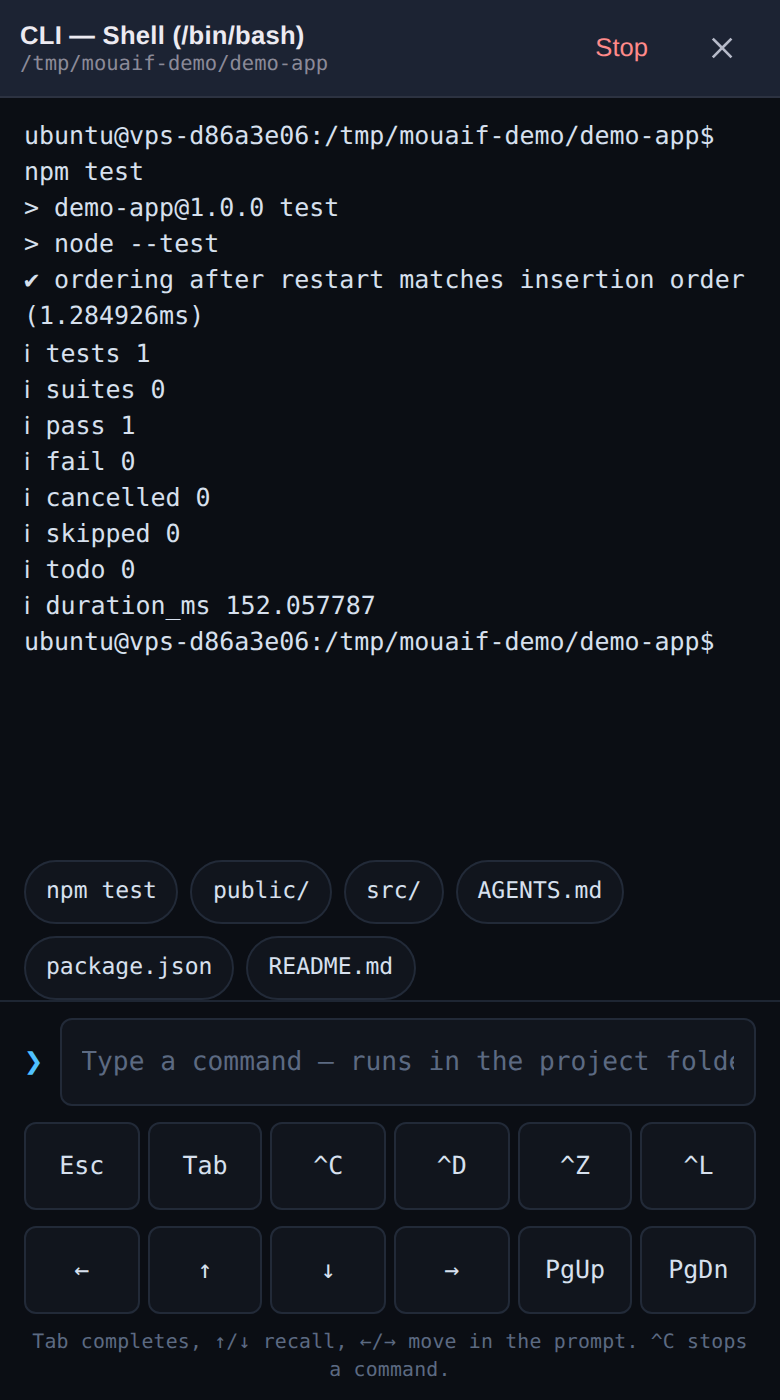
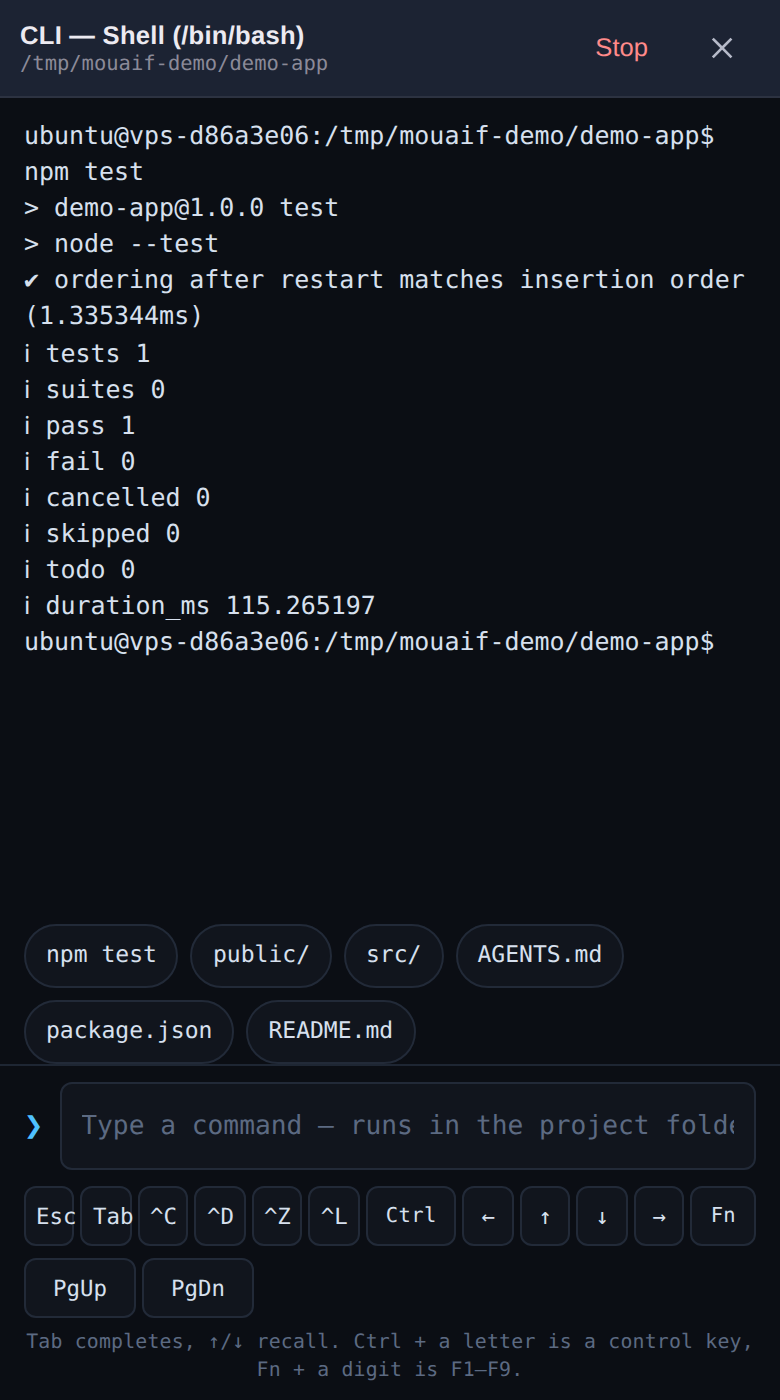
docs: refresh the terminal capture for the small key rows
The landing capture and the CLI modal page show the keys as they are now
(small rows with the Ctrl and Fn modifiers), and the copy describing the
terminal section names what the two modifiers do instead of calling the
keys plain buttons.

diff --git a/docs/features/cli-modal.html b/docs/features/cli-modal.html
@@ -10,6 +10,13 @@
   <meta property="og:title" content="CLI modal — mouaif docs" />
   <meta property="og:description" content="The CLI modal is a full-screen command prompt inside a chat, opened from the composer&#39;s File button → **Cli**. It runs a persistent shell for the project —…" />
   <meta property="og:url" content="https://gjeloshajantoine.github.io/mouaif/features/cli-modal.html" />
+  <meta property="og:image" content="https://gjeloshajantoine.github.io/mouaif/features/images/landing/terminal.png" />
+  <meta property="og:image:alt" content="The CLI modal is a full-screen command prompt inside a chat, opened from the composer&#39;s File button → **Cli**. It runs a persistent shell for the project —…" />
+  <meta property="og:image:width" content="780" />
+  <meta property="og:image:height" content="1400" />
+  <meta name="twitter:card" content="summary_large_image" />
+  <meta name="twitter:image" content="https://gjeloshajantoine.github.io/mouaif/features/images/landing/terminal.png" />
+  <meta name="twitter:image:alt" content="The CLI modal is a full-screen command prompt inside a chat, opened from the composer&#39;s File button → **Cli**. It runs a persistent shell for the project —…" />
   <link rel="stylesheet" href="../assets/site.css" />
 </head>
 <body>
@@ -43,6 +50,8 @@
 <h2 id="overview">Overview</h2>
 <p>The CLI modal is a full-screen command prompt inside a chat, opened from the composer&#39;s File button → <strong>Cli</strong>. It runs a persistent shell for the project — the platform shell (<code>cmd.exe</code> on Windows, the user&#39;s <code>$SHELL</code> or <code>/bin/sh</code> on POSIX) — with the project directory as the working directory. Output streams into the modal; each line typed at the prompt is sent to the same running process.</p>
 <p>The session runs on a <strong>pseudo-terminal</strong> on macOS, Linux, BSD, and supported Windows x64/ARM64 installations, so programs that ask a question (<code>npm publish</code> under two-factor authentication, <code>git commit</code> for a missing identity, <code>sudo</code>, <code>read</code>) can show the prompt and read the answer you type, and programs that only print full output to a terminal — npm&#39;s 2FA link — print it complete.</p>
+<p><img src="images/landing/terminal.png" alt="The CLI sheet at 390 px running npm test inside the project directory: the live shell output, suggestion chips for the session command and the project files, the command field, and two rows of small terminal keys (Esc, Tab, ^C, ^D, ^Z, ^L, Ctrl, arrows, Fn, PgUp, PgDn) above the line naming what the modifiers do." loading="lazy" /></p>
+<p>The capture above is generated by <a href="https://github.com/GjeloshajAntoine/mouaif/blob/master/scripts/capture-landing-shots.js" target="_blank" rel="noopener noreferrer">scripts/capture-landing-shots.js</a> against a fixture project, so it is reproducible rather than hand-taken.</p>
 <h2 id="usage">Usage</h2>
 <p>Open the composer&#39;s File button and choose <strong>Cli</strong>. The header shows the shell label and the project directory.</p>
 <ul><li><p>Type a command and press <strong>Enter</strong> to run it.</p></li><li><p>Press <strong>Enter</strong> on an empty line to send it — a prompt that offers a default accepts it.</p></li><li><p>Press <strong>Ctrl+Enter</strong> (<strong>Cmd+Enter</strong> on macOS) to send the line <strong>without a line terminator</strong>, for a program waiting on a single key (a <code>y/n</code> confirmation, a pager).</p></li><li><p>Close the sheet with the close button or <strong>Escape</strong>. Closing only hides it: the shell keeps running in the background and reopening replays what it printed. Tap <strong>Stop</strong> in the header to kill it — see <a href="background-terminal.html">Background terminal</a>.</p></li></ul>
@@ -54,9 +63,14 @@
 …test output…</code></pre>
 <p>Type <strong><code>!!</code></strong> and press <strong>Enter</strong> to repeat the previous command — the shell&#39;s own history expansion, handy when a keyboard has no Up arrow. It needs a terminal session; <code>!!</code> is not added to the suggestion row, the command it repeats already is.</p>
 <h3 id="keys">Keys</h3>
-<p>A phone keyboard has letters, digits and Enter, and nothing a terminal actually needs. Under the prompt, two rows carry the twelve keys it lacks:</p>
+<p>A phone keyboard has letters, digits and Enter, and nothing a terminal actually needs. Under the prompt, two rows of <strong>small</strong> keys carry the ones it lacks — small because the prompt above keeps the finger-sized target and the keys are a secondary control:</p>
 <div class="table-wrap"><table><thead><tr><th>Key</th><th>At the shell prompt</th><th>While a program runs</th></tr></thead><tbody><tr><td><strong>Esc</strong></td><td>clears the prompt</td><td>sends <code>ESC</code> — leave <code>less</code>, <code>vim</code>, a TUI</td></tr><tr><td><strong>Tab</strong></td><td>completes the command or path <strong>in the prompt</strong></td><td>sends <code>Tab</code></td></tr><tr><td><strong>^C</strong></td><td>interrupts (and clears the prompt)</td><td>interrupts the running command</td></tr><tr><td><strong>^D</strong></td><td>sends EOF</td><td>ends input (EOF)</td></tr><tr><td><strong>^Z</strong></td><td>sends <code>SUB</code></td><td>suspends the running command</td></tr><tr><td><strong>^L</strong></td><td>clears the screen</td><td>redraws / clears the screen</td></tr><tr><td><strong>←</strong> / <strong>→</strong></td><td>moves the cursor in the prompt</td><td>sends the arrow</td></tr><tr><td><strong>↑</strong> / <strong>↓</strong></td><td>previous / next command from this session</td><td>sends the arrow — scroll <code>less</code>, move in a menu</td></tr><tr><td><strong>PgUp</strong> / <strong>PgDn</strong></td><td>scrolls the output</td><td>sends Page Up / Page Down</td></tr></tbody></table></div>
 <p>Every key is one raw write with <strong>no line terminator</strong>, so <code>^C</code> interrupts without also pressing Enter — which would answer a second prompt you never saw.</p>
+<h4 id="ctrl-and-fn">Ctrl and Fn</h4>
+<p>Two of the keys are <strong>modifiers</strong>, not senders, and they are what makes a small row enough: a phone keyboard has no Ctrl and no F-row at all. Tap <strong>Ctrl</strong> and the next character is that control key; tap <strong>Fn</strong> and the next digit is that function key. The character is sent as its bytes and <strong>never reaches the command line</strong>, so <code>Ctrl</code> + <code>c</code> is exactly <code>^C</code> and leaves the prompt as it was.</p>
+<div class="table-wrap"><table><thead><tr><th>Armed</th><th>Then</th><th>Sends</th></tr></thead><tbody><tr><td><strong>Ctrl</strong></td><td><code>c</code></td><td><code>\x03</code> — <code>^C</code>, interrupt</td></tr><tr><td><strong>Ctrl</strong></td><td><code>d</code></td><td><code>\x04</code> — <code>^D</code>, EOF</td></tr><tr><td><strong>Ctrl</strong></td><td><code>a</code>, <code>e</code>, <code>k</code>, <code>u</code>, <code>w</code>, <code>r</code>, <code>]</code>, …</td><td>the matching control key (<code>\x01</code>, <code>\x05</code>, …)</td></tr><tr><td><strong>Ctrl</strong></td><td><code>[</code></td><td><code>ESC</code></td></tr><tr><td><strong>Fn</strong></td><td><code>1</code>–<code>4</code></td><td><code>F1</code>–<code>F4</code> (<code>ESC O P</code> … <code>ESC O S</code>)</td></tr><tr><td><strong>Fn</strong></td><td><code>5</code>–<code>9</code></td><td><code>F5</code>–<code>F9</code> (<code>ESC [ 5 ~</code> …)</td></tr></tbody></table></div>
+<p>The Ctrl rule is the terminal&#39;s own — the character with its top three bits cleared — so <strong>every</strong> control character is reachable, not just the four with a button. <code>Fn</code> is the only way to press a function key on a phone (<code>F1</code> help in a pager, <code>F3</code> search in <code>less</code>, <code>F10</code> quit in <code>mc</code>).</p>
+<p>An armed modifier is spent by the next thing you do, so a <code>Ctrl</code> that was tapped by mistake can never swallow the letter after the one you meant. It also stays armed when the character it got has no meaning for it (<code>Fn</code> + <code>z</code>), and the line under the keys says what is armed: <code>Ctrl armed — a letter is that control key: c is ^C, u is ^U, [ is Esc.</code> And a letter meant as a modifier never lands in the line: it is written to the child instead.</p>
 <p>The modal picks the column for you. bash and zsh announce it themselves: they switch the terminal&#39;s bracketed-paste mode on at their prompt and off when a command starts, and a full-screen program (<code>less</code>, <code>top</code>, <code>vim</code>) switches to the alternate screen. While a program has the input, the rows get a blue edge and the line under them says <code>Keys go to the running program — ^C stops it, Esc leaves it.</code> If the program switches the arrows to <em>application</em> mode (as <code>less</code> and <code>vim</code> do), the arrows send that form. The shell takes the column back as soon as it prints its next prompt — including after a full-screen program was <strong>killed</strong> with <code>^C</code>, which never gets to restore the screen itself.</p>
 <p>At the prompt, Esc clears the line instead of sending <code>ESC</code>. A bare <code>ESC</code> at a bash prompt waits for a second key, so the first letter of your next command would be swallowed.</p>
 <p><strong>Tab</strong> completes <strong>in the prompt itself</strong>, and nothing is sent to the shell until you press <strong>Enter</strong>. A command from this session&#39;s history that starts with your line is completed whole (<code>git chec</code> → <code>git checkout main</code>); several matches extend as far as they agree (<code>npm ru</code> → <code>npm run </code>) and the suggestion row below narrows to the rest. When no history command matches, the word before the cursor completes from the project&#39;s own names, prefix preserved (<code>ls pac</code> → <code>ls package.json</code>, <code>cd scr</code> → <code>cd scripts/</code>). <strong>↑/↓</strong> walk the same session history into the prompt. Because completion happens in the field, the text you typed is never emptied and never lost — and it works the same on a session without a terminal.</p>
@@ -81,7 +95,7 @@ Press ENTER to open in the browser...
 <p>You can also run multiple commands in one session — the shell keeps its state (working directory, environment, variables) between lines.</p>
 <h2 id="tests">Tests</h2>
 <pre><code class="language-bash">npm run test:cli</code></pre>
-<ul><li><p><code>scripts/test-cli-suggest.js</code> — unit-tests the suggestion row, the key rows, and Tab/↑/↓ (the key table&#39;s sequences, that at the shell Tab/arrows/Page keys/Esc edit the prompt and write nothing while to a program every key writes its sequence — application-mode arrows included — and the hardware-key mapping, how a tab a phone keyboard typed into the field is split off, that Tab completes the line in the field — history command first, then the project&#39;s top-level names — and that no completion ever empties the field, the ↑/↓ walk over the session history, who owns stdin from bracketed-paste markers split across chunks, which lines the history keeps, the ranking and the cap). Every key is asserted byte for byte, including that none of them carries a line terminator.</p></li><li><p><code>scripts/test-cli-tab-program-mode.mjs</code> — browser regression (real built app + fixture API, phone width): a full-screen program takes the alternate screen and is then killed without restoring it, and the test asserts the shell&#39;s next prompt marker leaves program mode and <strong>Tab completes in the prompt again</strong> (writing nothing to the child), while a live program still receives Tab as a raw byte.</p></li><li><p><code>scripts/test-cli-session-newline.js</code> — drives the real endpoints and asserts a plain <code>ls</code> lists the project files (the terminator rule).</p></li><li><p><code>scripts/test-cli-strip-ansi.js</code> — unit-tests <code>stripAnsi</code> / <code>CliScreen</code>, including every escape-sequence family split at every pair of positions and fed one code point at a time.</p></li><li><p><code>scripts/test-cli-utf8-split.js</code> — feeds <code>attachCliStream</code> UTF-8 split at every byte boundary, on the PTY and piped paths, and asserts no <code>�</code> reaches the broadcast.</p></li><li><p><code>scripts/test-cli-pty-interactive.js</code> — asserts the session is interactive, that a prompting program&#39;s question reaches the screen, and that the answer POSTed to the command endpoint is read back by the still-running child. It skips (exit 0) when no pseudo-terminal can be allocated, because that is the documented degraded mode.</p></li><li><p><code>scripts/test-cli-symlink-project.js</code> — opens a session through a symlinked project path and asserts that a command reaches it and that close really ends it.</p></li><li><p><code>scripts/test-cli-npm-otp-url.js</code> — runs a real <code>npm publish</code> in a CLI session against a local registry that demands web 2FA, once per backend present on the host, and asserts the link reaches the modal complete (never <code>***</code>) and the publish finishes.</p></li><li><p><code>scripts/test-cli-pty-shim.js</code> — unit-tests <code>src/pty.js</code> on every POSIX backend present on the host (stdout is a terminal too, the grid is 100×30, not 0×0): <code>isAvailable()</code> is true on POSIX, quoting survives a path with spaces and quotes, <code>onData</code> replays what was buffered before the stream attached, <code>write</code> reaches the shell, and <code>kill</code> takes down the shell, its foreground job and any backgrounded job (<code>cmd &amp;</code>). Windows uses node-pty&#39;s own platform-tested ConPTY adapter.</p></li></ul>
+<ul><li><p><code>scripts/test-cli-suggest.js</code> — unit-tests the suggestion row, the key rows, and Tab/↑/↓ (the key table&#39;s sequences, that at the shell Tab/arrows/Page keys/Esc edit the prompt and write nothing while to a program every key writes its sequence — application-mode arrows included — and the hardware-key mapping, how a tab a phone keyboard typed into the field is split off, that Tab completes the line in the field — history command first, then the project&#39;s top-level names — and that no completion ever empties the field, the ↑/↓ walk over the session history, who owns stdin from bracketed-paste markers split across chunks, which lines the history keeps, the ranking and the cap). Every key is asserted byte for byte, including that none of them carries a line terminator, and the modifiers are asserted the same way: Ctrl is the character with its top three bits cleared (<code>c</code> → <code>\x03</code>, and it re-derives the four ^-keys the table still carries), <code>Fn</code> + a digit is that function key&#39;s VT sequence, an armed modifier consumes its character and a modifier that matched nothing does not.</p></li><li><p><code>scripts/test-cli-tab-program-mode.mjs</code> — browser regression (real built app + fixture API, phone width): a full-screen program takes the alternate screen and is then killed without restoring it, and the test asserts the shell&#39;s next prompt marker leaves program mode and <strong>Tab completes in the prompt again</strong> (writing nothing to the child), while a live program still receives Tab as a raw byte. It also asserts the two rows render the small keys (nothing above 34 px, so the row is a secondary control rather than the finger-sized target the prompt is) plus the two modifiers, and that a touch on <strong>Ctrl</strong> then a typed <code>c</code> writes <code>\x03</code> raw and leaves the prompt empty — the character a phone keyboard cannot type.</p></li><li><p><code>scripts/test-cli-session-newline.js</code> — drives the real endpoints and asserts a plain <code>ls</code> lists the project files (the terminator rule).</p></li><li><p><code>scripts/test-cli-strip-ansi.js</code> — unit-tests <code>stripAnsi</code> / <code>CliScreen</code>, including every escape-sequence family split at every pair of positions and fed one code point at a time.</p></li><li><p><code>scripts/test-cli-utf8-split.js</code> — feeds <code>attachCliStream</code> UTF-8 split at every byte boundary, on the PTY and piped paths, and asserts no <code>�</code> reaches the broadcast.</p></li><li><p><code>scripts/test-cli-pty-interactive.js</code> — asserts the session is interactive, that a prompting program&#39;s question reaches the screen, and that the answer POSTed to the command endpoint is read back by the still-running child. It skips (exit 0) when no pseudo-terminal can be allocated, because that is the documented degraded mode.</p></li><li><p><code>scripts/test-cli-symlink-project.js</code> — opens a session through a symlinked project path and asserts that a command reaches it and that close really ends it.</p></li><li><p><code>scripts/test-cli-npm-otp-url.js</code> — runs a real <code>npm publish</code> in a CLI session against a local registry that demands web 2FA, once per backend present on the host, and asserts the link reaches the modal complete (never <code>***</code>) and the publish finishes.</p></li><li><p><code>scripts/test-cli-pty-shim.js</code> — unit-tests <code>src/pty.js</code> on every POSIX backend present on the host (stdout is a terminal too, the grid is 100×30, not 0×0): <code>isAvailable()</code> is true on POSIX, quoting survives a path with spaces and quotes, <code>onData</code> replays what was buffered before the stream attached, <code>write</code> reaches the shell, and <code>kill</code> takes down the shell, its foreground job and any backgrounded job (<code>cmd &amp;</code>). Windows uses node-pty&#39;s own platform-tested ConPTY adapter.</p></li></ul>
       <div class="footer">Generated from <code>docs/</code> by <code>scripts/build-docs.js</code>. Open an issue on the repo to suggest changes.</div>
     </main>
   </div>

diff --git a/docs/features/docs-site.html b/docs/features/docs-site.html
@@ -54,7 +54,7 @@
 <p>The <code>#screens</code> wrapper itself carries <strong>no heading and no lead paragraph</strong>. An earlier revision put &quot;What it does that others do not&quot; and a line about 390 px captures above the first section, which stacked a third heading on top of the first section&#39;s own H2 and pushed the first real capture further down the phone screen for no information a reader could use. The hero&#39;s tagline already says what the app is, and the sections say the rest.</p>
 <p>The sections are ordered by how much they distinguish the app, not by navigation order — the chat run, the terminal, git and the editor come first, and the configuration screens (settings, project settings) are deliberately <strong>not</strong> sections at all: a page that lists its own settings is a manual, not a pitch.</p>
 <p>The twelve sections, in page order:</p>
-<div class="table-wrap"><table><thead><tr><th>Section</th><th>Capture</th><th>What it shows</th></tr></thead><tbody><tr><td><strong>One chat, a whole run</strong></td><td><code>chat-view.png</code></td><td>A chat at the end of a run — the <strong>Context</strong>, <strong>Total</strong> and <strong>Balance</strong> chips, per-turn cost lines, and the <strong>Read</strong>, <strong>Searched</strong>, <strong>Wrote</strong> and <strong>Ran</strong> tool cards</td></tr><tr><td><strong>A real terminal on the phone</strong></td><td><code>terminal.png</code></td><td>The <strong>CLI</strong> sheet running <code>npm test</code> in the project directory, with the suggestion chips and the two rows of terminal keys (Esc, Tab, ^C, ^D, ^Z, ^L, arrows, PgUp, PgDn)</td></tr><tr><td><strong>Review the diff, then commit</strong></td><td><code>git.png</code></td><td>The <strong>Git</strong> sheet — branch picker with pull / push, a staged file above the commit bar, and unstaged files each with <strong>Stage</strong></td></tr><tr><td><strong>Edit the file, not a diff of it</strong></td><td><code>editor.png</code></td><td>The file editor with <code>src/store.js</code> open — the project tree, the <strong>Draft Craft / Revert / Save</strong> row, highlighted JavaScript with three lines selected, and the byte count</td></tr><tr><td><strong>Draw on the bug instead of describing it</strong></td><td><code>draft-craft.png</code></td><td>The <strong>Draft Craft</strong> annotator over an attached image — a pen stroke, a numbered pin carrying text, the marker list, and <strong>Use annotated image</strong></td></tr><tr><td><strong>Nothing sensitive runs unnamed</strong></td><td><code>subagent-auth.png</code></td><td>A <strong>subagent</strong> approval card on a paused run — the delegated task, the per-run model picker and thinking select, and the <strong>Allow once / Allow session / Always allow / Deny</strong> buttons</td></tr><tr><td><strong>Share one image, not the whole chat</strong></td><td><code>subagent-images.png</code></td><td>An illustrative fixture using the real transcript renderer: explicitly selected input, delegated image task, and returned artwork beside the answer</td></tr><tr><td><strong>A DevTools built for a phone</strong></td><td><code>inspector.png</code></td><td>The Inspector attached to a page over CDP — target bar, panel chips, live preview, console input</td></tr><tr><td><strong>Chats belong to a project</strong></td><td><code>chats-list.png</code></td><td>The Chats tab — project cards, each holding its own scrolling chat list and <strong>New chat</strong></td></tr><tr><td><strong>A chat that starts configured</strong></td><td><code>chat-tools.png</code></td><td>A brand-new chat — the model picker, then the tools list (Progress updates, File tools with its leaves, Agent files, Skills), one checkbox and one <strong>Off / Ask / Allow</strong> control per row</td></tr><tr><td><strong>Talk to it from anywhere</strong></td><td><code>dictation.png</code></td><td>The Dictate page — the model picker, the record button with its timer and level meter, and the transcript with <strong>Copy / Insert in chat / Send to chat</strong></td></tr><tr><td><strong>Your keys, your machine</strong></td><td><code>providers.png</code></td><td>Settings → Providers — seven connected providers, each naming its endpoint and whether a key is stored</td></tr></tbody></table></div>
+<div class="table-wrap"><table><thead><tr><th>Section</th><th>Capture</th><th>What it shows</th></tr></thead><tbody><tr><td><strong>One chat, a whole run</strong></td><td><code>chat-view.png</code></td><td>A chat at the end of a run — the <strong>Context</strong>, <strong>Total</strong> and <strong>Balance</strong> chips, per-turn cost lines, and the <strong>Read</strong>, <strong>Searched</strong>, <strong>Wrote</strong> and <strong>Ran</strong> tool cards</td></tr><tr><td><strong>A real terminal on the phone</strong></td><td><code>terminal.png</code></td><td>The <strong>CLI</strong> sheet running <code>npm test</code> in the project directory, with the suggestion chips and two rows of small terminal keys (Esc, Tab, ^C, ^D, ^Z, ^L, Ctrl, arrows, Fn, PgUp, PgDn)</td></tr><tr><td><strong>Review the diff, then commit</strong></td><td><code>git.png</code></td><td>The <strong>Git</strong> sheet — branch picker with pull / push, a staged file above the commit bar, and unstaged files each with <strong>Stage</strong></td></tr><tr><td><strong>Edit the file, not a diff of it</strong></td><td><code>editor.png</code></td><td>The file editor with <code>src/store.js</code> open — the project tree, the <strong>Draft Craft / Revert / Save</strong> row, highlighted JavaScript with three lines selected, and the byte count</td></tr><tr><td><strong>Draw on the bug instead of describing it</strong></td><td><code>draft-craft.png</code></td><td>The <strong>Draft Craft</strong> annotator over an attached image — a pen stroke, a numbered pin carrying text, the marker list, and <strong>Use annotated image</strong></td></tr><tr><td><strong>Nothing sensitive runs unnamed</strong></td><td><code>subagent-auth.png</code></td><td>A <strong>subagent</strong> approval card on a paused run — the delegated task, the per-run model picker and thinking select, and the <strong>Allow once / Allow session / Always allow / Deny</strong> buttons</td></tr><tr><td><strong>Share one image, not the whole chat</strong></td><td><code>subagent-images.png</code></td><td>An illustrative fixture using the real transcript renderer: explicitly selected input, delegated image task, and returned artwork beside the answer</td></tr><tr><td><strong>A DevTools built for a phone</strong></td><td><code>inspector.png</code></td><td>The Inspector attached to a page over CDP — target bar, panel chips, live preview, console input</td></tr><tr><td><strong>Chats belong to a project</strong></td><td><code>chats-list.png</code></td><td>The Chats tab — project cards, each holding its own scrolling chat list and <strong>New chat</strong></td></tr><tr><td><strong>A chat that starts configured</strong></td><td><code>chat-tools.png</code></td><td>A brand-new chat — the model picker, then the tools list (Progress updates, File tools with its leaves, Agent files, Skills), one checkbox and one <strong>Off / Ask / Allow</strong> control per row</td></tr><tr><td><strong>Talk to it from anywhere</strong></td><td><code>dictation.png</code></td><td>The Dictate page — the model picker, the record button with its timer and level meter, and the transcript with <strong>Copy / Insert in chat / Send to chat</strong></td></tr><tr><td><strong>Your keys, your machine</strong></td><td><code>providers.png</code></td><td>Settings → Providers — seven connected providers, each naming its endpoint and whether a key is stored</td></tr></tbody></table></div>
 <p>The images live in the same feature image tree as every other screenshot, so the existing recursive copy ships them:</p>
 <pre><code class="language-text">docs/features/images/landing/
   chat-view.png          # Chat transcript, end of run, 390 × 700 @2x

diff --git a/docs/index.html b/docs/index.html
@@ -66,11 +66,11 @@ npx mouaif serve --auth-setup</code></pre>
 <section class="screen screen--flip" id="terminal">
 <div class="screen-copy">
 <h2>A real terminal on the phone</h2>
-<p>Not a log viewer: a persistent shell session in the project directory. Esc, Tab, Ctrl-C, arrows and PgUp/PgDn are buttons here, so a pager, a full-screen program or a password prompt all work from a phone keyboard.</p>
+<p>Not a log viewer: a persistent shell session in the project directory. Esc, Tab, Ctrl-C, arrows and PgUp/PgDn are small buttons here, and Ctrl and Fn turn the next letter or digit into any control character or function key — so a pager, a full-screen program or a password prompt all work from a phone keyboard.</p>
 </div>
 <figure class="shot">
-  <div class="shot-fallback">The CLI sheet at 390 px running npm test inside the project directory: the live shell output, suggestion chips for the session command and the project files, the command field, and two rows of terminal keys (Esc, Tab, ^C, ^D, ^Z, ^L, arrows, PgUp, PgDn).</div>
-  <img src="features/images/landing/terminal.png" alt="The CLI sheet at 390 px running npm test inside the project directory: the live shell output, suggestion chips for the session command and the project files, the command field, and two rows of terminal keys (Esc, Tab, ^C, ^D, ^Z, ^L, arrows, PgUp, PgDn)." width="780" height="1400" loading="lazy" />
+  <div class="shot-fallback">The CLI sheet at 390 px running npm test inside the project directory: the live shell output, suggestion chips for the session command and the project files, the command field, and two rows of small terminal keys (Esc, Tab, ^C, ^D, ^Z, ^L, Ctrl, arrows, Fn, PgUp, PgDn) above the line naming what the modifiers do.</div>
+  <img src="features/images/landing/terminal.png" alt="The CLI sheet at 390 px running npm test inside the project directory: the live shell output, suggestion chips for the session command and the project files, the command field, and two rows of small terminal keys (Esc, Tab, ^C, ^D, ^Z, ^L, Ctrl, arrows, Fn, PgUp, PgDn) above the line naming what the modifiers do." width="780" height="1400" loading="lazy" />
   <figcaption>CLI — a shell in your project, driven from a phone</figcaption>
 </figure>
 </section>

diff --git a/scripts/build-docs.js b/scripts/build-docs.js
@@ -1354,9 +1354,9 @@ const landingScreens = [
   {
     id: 'terminal',
     title: 'A real terminal on the phone',
-    text: 'Not a log viewer: a persistent shell session in the project directory. Esc, Tab, Ctrl-C, arrows and PgUp/PgDn are buttons here, so a pager, a full-screen program or a password prompt all work from a phone keyboard.',
+    text: 'Not a log viewer: a persistent shell session in the project directory. Esc, Tab, Ctrl-C, arrows and PgUp/PgDn are small buttons here, and Ctrl and Fn turn the next letter or digit into any control character or function key — so a pager, a full-screen program or a password prompt all work from a phone keyboard.',
     src: 'features/images/landing/terminal.png',
-    alt: 'The CLI sheet at 390 px running npm test inside the project directory: the live shell output, suggestion chips for the session command and the project files, the command field, and two rows of terminal keys (Esc, Tab, ^C, ^D, ^Z, ^L, arrows, PgUp, PgDn).',
+    alt: 'The CLI sheet at 390 px running npm test inside the project directory: the live shell output, suggestion chips for the session command and the project files, the command field, and two rows of small terminal keys (Esc, Tab, ^C, ^D, ^Z, ^L, Ctrl, arrows, Fn, PgUp, PgDn) above the line naming what the modifiers do.',
     caption: 'CLI — a shell in your project, driven from a phone'
   },
   {

diff --git a/docs/agent/features/docs-site.md b/docs/agent/features/docs-site.md
@@ -53,7 +53,7 @@ The section's copy deliberately does not name the system prompt: on a `/` (avera
 
 `terminal.png`, `git.png`, `editor.png` and `draft-craft.png` are the four captures that exist to answer "what does this do that a chat wrapper does not", and all four drive the real UI:
 
-- **`terminal.png`** opens `.file-toolbar__trigger`, taps the **Cli** row and runs a real command: the recipe presses the menu row, waits for `.cli__prompt` (the server has to start a persistent session — a pty via `src/pty.js`), types `npm test` through the native value setter, dispatches Enter, then waits 2.5 s for the output to arrive over SSE and pins `.cli__out` to its tail. The frame is therefore a genuine shell run in the fixture project, showing the key rows a phone keyboard cannot provide.
+- **`terminal.png`** opens `.file-toolbar__trigger`, taps the **Cli** row and runs a real command: the recipe presses the menu row, waits for `.cli__prompt` (the server has to start a persistent session — a pty via `src/pty.js`), types `npm test` through the native value setter, dispatches Enter, then waits 2.5 s for the output to arrive over SSE and pins `.cli__out` to its tail. The frame is therefore a genuine shell run in the fixture project, showing the small key rows a phone keyboard cannot provide, plus the two modifiers (`Ctrl` and `Fn`) that turn the next letter or digit into a control character or a function key.
 - **`git.png`** calls `makeGitDirty(projectDir)` in its `before` hook (one staged edit to `README.md`, one unstaged comment in `src/store.js`) so the sheet shows a working tree with changes rather than a clean one, then opens **Git** and waits for `.gm__commit-bar` — the marker that the real `git status` has landed.
 - **`editor.png`** opens the file toolbar's **Files** row and walks the real tree — taps `src`, then `store.js` — and selects three lines in the CodeMirror buffer. The selection has to be driven with **mouse events**, not pointer events: CodeMirror's drag-select is wired to `mousedown` / `mousemove` / `mouseup` (see the handlers in `@codemirror/view`), so the pointer events the other recipes use leave the buffer unselected. `waitFor: '.fe__draft-craft'` holds the frame until the editor's action row is mounted, which is also what the capture is for.
 - **`draft-craft.png`** seeds the empty chat's `draftAttachments` over `PATCH /api/chats/<id>` with a PNG of the fixture's own preview page, taken through the same debug Chrome by `capturePreviewDataUrl()` (hence `state.base` / `state.cdpBase`, set once in `main`). The recipe then taps the composer's image chip to open the annotator and drives real pointer events: a four-point pen stroke on `.draft-craft__canvas`, then a pin dragged from `.draft-craft__marker-source` onto `.draft-craft__canvas-stage` with its text typed into `.draft-craft__marker-input`. `waitFor: '.draft-craft__marker-input'` holds the frame until the marker row has committed.

diff --git a/docs/features/docs-site.md b/docs/features/docs-site.md
@@ -39,7 +39,7 @@ The twelve sections, in page order:
 | Section | Capture | What it shows |
 |---------|---------|---------------|
 | **One chat, a whole run** | `chat-view.png` | A chat at the end of a run — the **Context**, **Total** and **Balance** chips, per-turn cost lines, and the **Read**, **Searched**, **Wrote** and **Ran** tool cards |
-| **A real terminal on the phone** | `terminal.png` | The **CLI** sheet running `npm test` in the project directory, with the suggestion chips and the two rows of terminal keys (Esc, Tab, ^C, ^D, ^Z, ^L, arrows, PgUp, PgDn) |
+| **A real terminal on the phone** | `terminal.png` | The **CLI** sheet running `npm test` in the project directory, with the suggestion chips and two rows of small terminal keys (Esc, Tab, ^C, ^D, ^Z, ^L, Ctrl, arrows, Fn, PgUp, PgDn) |
 | **Review the diff, then commit** | `git.png` | The **Git** sheet — branch picker with pull / push, a staged file above the commit bar, and unstaged files each with **Stage** |
 | **Edit the file, not a diff of it** | `editor.png` | The file editor with `src/store.js` open — the project tree, the **Draft Craft / Revert / Save** row, highlighted JavaScript with three lines selected, and the byte count |
 | **Draw on the bug instead of describing it** | `draft-craft.png` | The **Draft Craft** annotator over an attached image — a pen stroke, a numbered pin carrying text, the marker list, and **Use annotated image** |

diff --git a/docs/features/cli-modal.md b/docs/features/cli-modal.md
@@ -6,6 +6,10 @@ The CLI modal is a full-screen command prompt inside a chat, opened from the com
 
 The session runs on a **pseudo-terminal** on macOS, Linux, BSD, and supported Windows x64/ARM64 installations, so programs that ask a question (`npm publish` under two-factor authentication, `git commit` for a missing identity, `sudo`, `read`) can show the prompt and read the answer you type, and programs that only print full output to a terminal — npm's 2FA link — print it complete.
 
+![The CLI sheet at 390 px running npm test inside the project directory: the live shell output, suggestion chips for the session command and the project files, the command field, and two rows of small terminal keys (Esc, Tab, ^C, ^D, ^Z, ^L, Ctrl, arrows, Fn, PgUp, PgDn) above the line naming what the modifiers do.](./images/landing/terminal.png)
+
+The capture above is generated by [scripts/capture-landing-shots.js](../../scripts/capture-landing-shots.js) against a fixture project, so it is reproducible rather than hand-taken.
+
 ## Usage
 
 Open the composer's File button and choose **Cli**. The header shows the shell label and the project directory.
